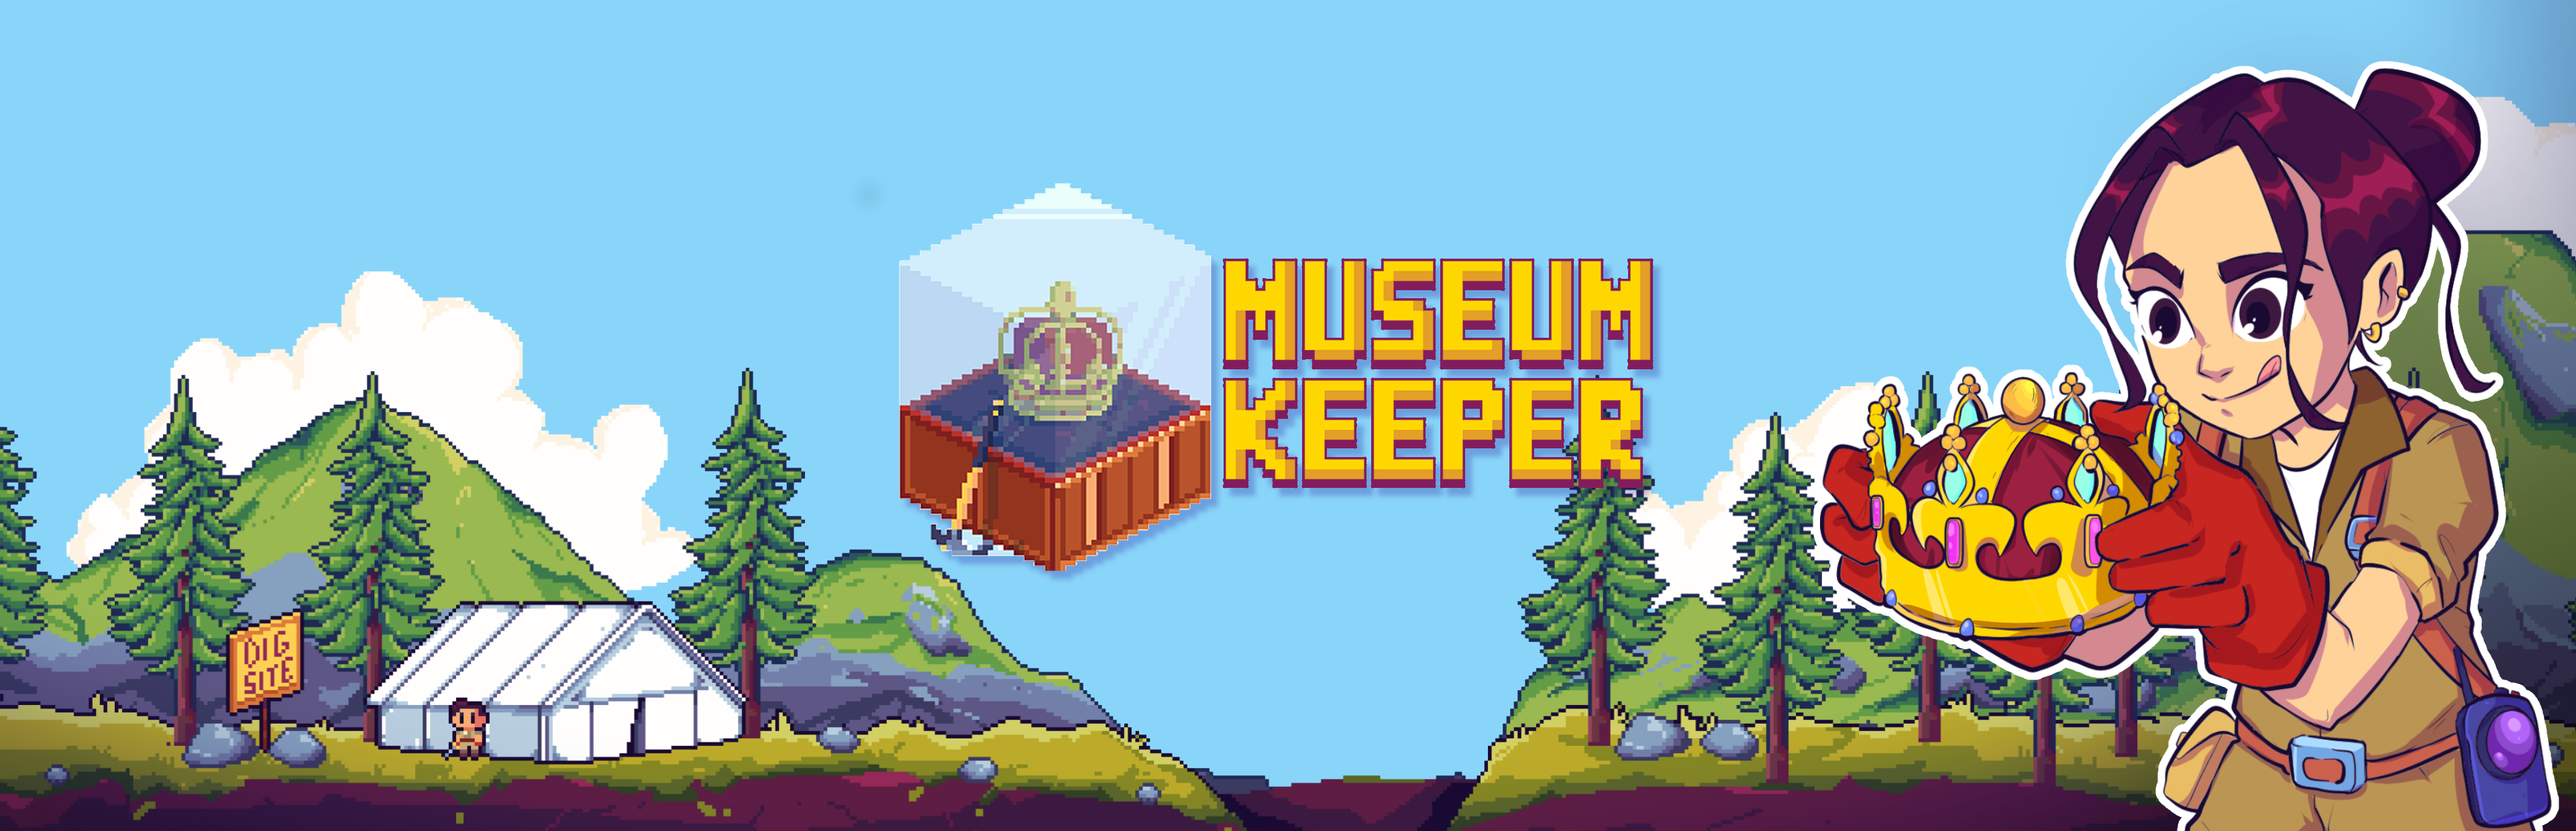
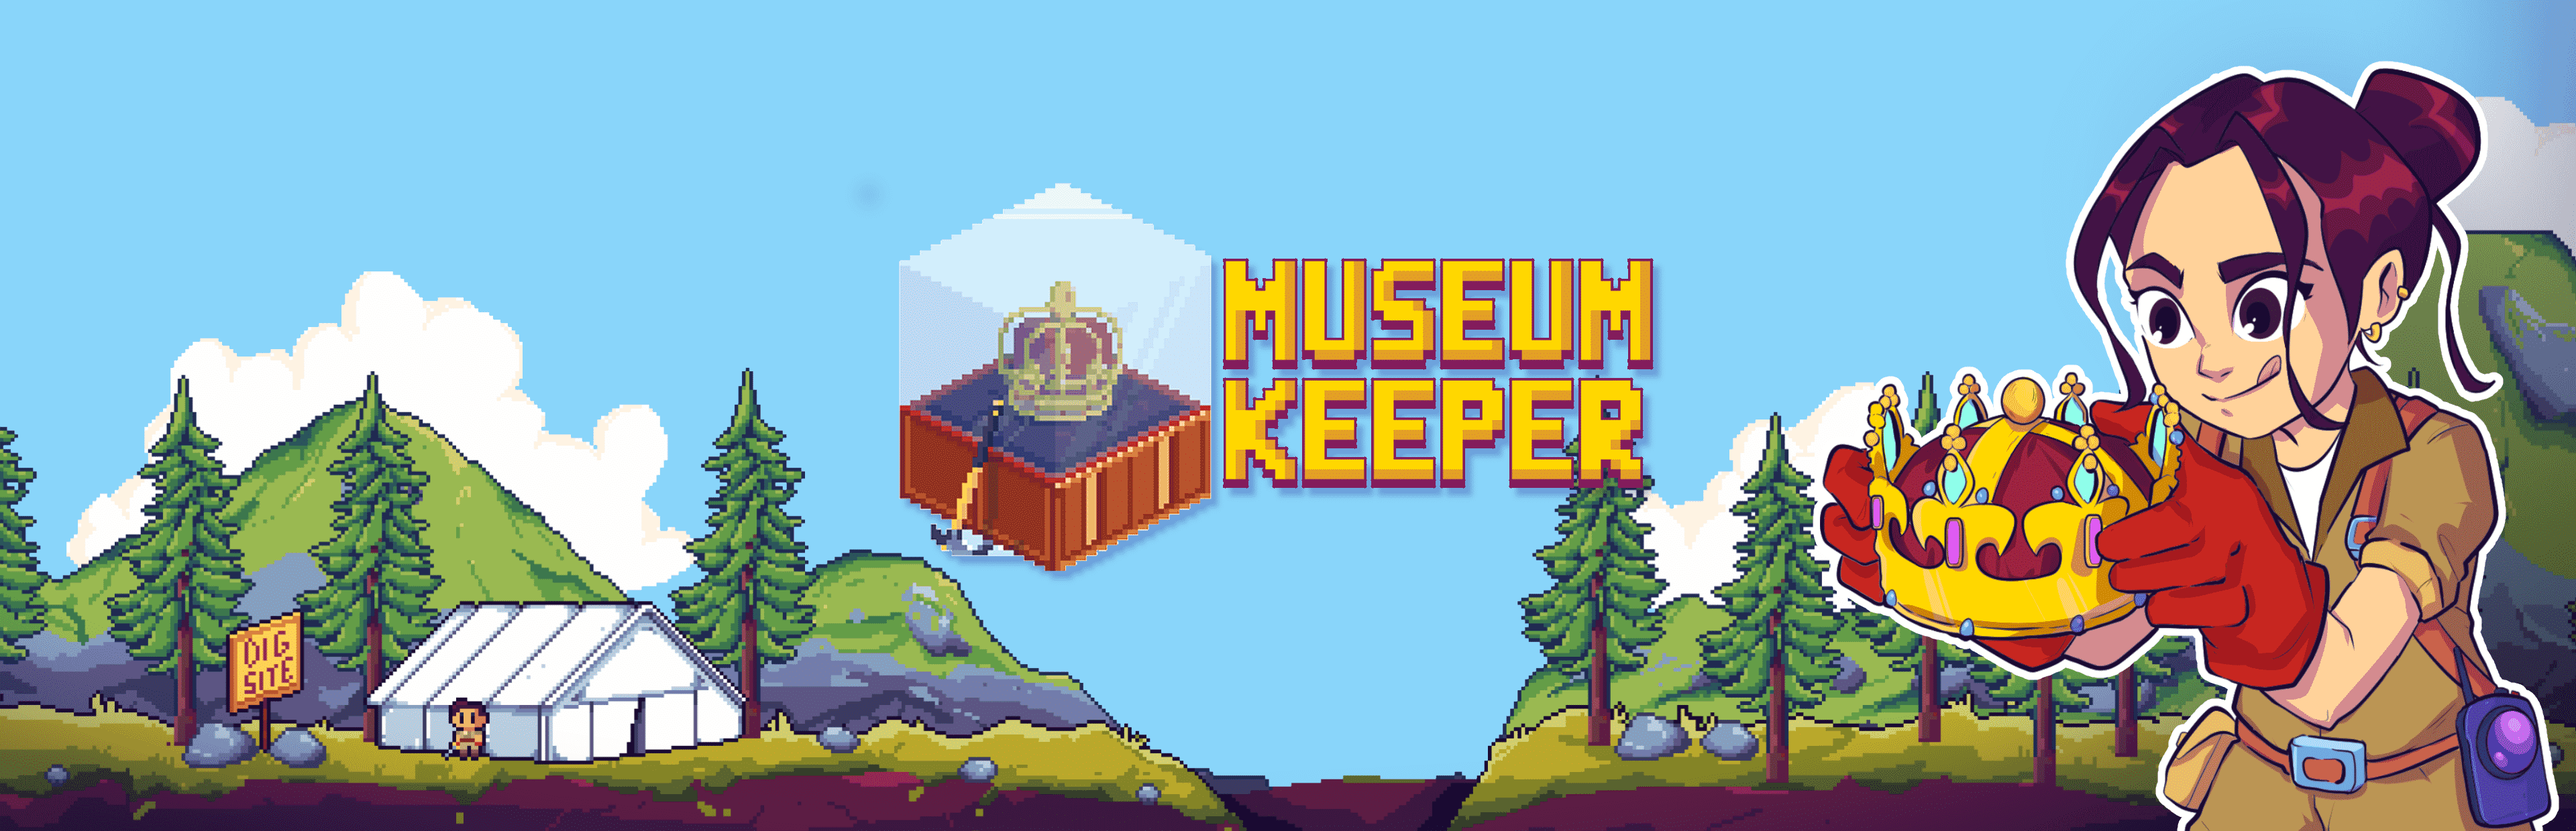
Changes April
-Compressed Images
-Added Home Button
-Fixed Youtube Embed Resonsiveness

diff --git a/newStyle.css b/newStyle.css
@@ -21,6 +21,11 @@ body{
     padding-top: 2%;
     padding-bottom: 2%;
   }
+
+  .teamImg.sticky {
+    position: sticky;
+    top: 0;
+  }
 #teamImg{
     border-radius: 5%;
   }
@@ -57,11 +62,23 @@ body{
     font-size: 2vw;
     text-align: center;
   }
+  #gameimgOne{
+    border-style: solid;
+    border-color: #fcb634;
+    border-spacing: 1%;
+    border-radius: 2%;
+  }
+  #gameimgTwo{
+    border-style: solid;
+    border-color: #fcb634;
+    border-spacing: 1%;
+    border-radius: 2%;
+  }
 #gameImgOne:hover{
-    opacity: 0.6;
+    opacity: 0.8;
   }
 #gameImgTwo:hover{
-    opacity: 0.6;
+    opacity: 0.8;
   }
 .copyright{
     white-space: nowrap;
@@ -140,4 +157,41 @@ body{
 }
 #myImg:hover{
   opacity: 0.6;
+}
+.youtubeLink{
+  display: flex;
+  justify-content: center;
+}
+iframe {
+  aspect-ratio: 16 / 9;
+  width: 60%;
+}
+
+.icon-bar {
+  position: fixed;
+  top: 20%;
+  -webkit-transform: translateY(-50%);
+  -ms-transform: translateY(-50%);
+  transform: translateY(-50%);
+  left: 0;
+}
+
+/* Style the icon bar links */
+.icon-bar a {
+  display: block;
+  text-align: center;
+  padding: 2vh;
+  transition: all 0.3s ease;
+  color: #B3172F;
+  font-size: 2.5vh;
+}
+
+/* Style the social media icons with color, if you want */
+.icon-bar a:hover {
+  background-color: #156a63;
+}
+
+.homeButton {
+  background: #fcb634;
+  color: white;
 }

diff --git a/alexBall.html b/alexBall.html
@@ -11,6 +11,11 @@
     <script src="https://kit.fontawesome.com/3967e48609.js" crossorigin="anonymous"></script>
 </head>
 <body class="bg-dark">
+
+  <div class="icon-bar">
+    <a href="index.html" class="homeButton"><i class="fa fa-house-chimney"></i></a>
+  </div>
+
   <!-- Company Logo -->
   <img src="Images/Company_Logo.png" class="logo" alt="" width="15%">
   <!-- Company Logo -->
@@ -19,7 +24,9 @@
       <a href="https://store.steampowered.com/app/1944660/AlexanderBall_A_Countryball_Tale/" target="_blank"><img src="Images/purchase_on_steam.png" class="img-fluid mx-auto" id="myImg" alt="" width="40%"></a>
     </center></div><br>
     
-    <div class="youtubeLink"><center><iframe style="width:720px; height:405px; max-width:60%; max-height:60%;" src="https://www.youtube.com/embed/8sTr8qdduQM?si=If5Mh1twSvKihwwX" title="YouTube video player" frameborder="0" allow="accelerometer; autoplay; clipboard-write; encrypted-media; gyroscope; picture-in-picture; web-share" allowfullscreen></iframe></center></div>
+    <div class="youtubeLink">
+      <iframe src="https://www.youtube.com/embed/8sTr8qdduQM?si=If5Mh1twSvKihwwX" title="YouTube video player" frameborder="0" allow="accelerometer; autoplay; clipboard-write; encrypted-media; gyroscope; picture-in-picture; web-share" allowfullscreen></iframe>
+    </div>
     <br>
   
   <div class="flex-links">

diff --git a/index.html b/index.html
@@ -11,6 +11,10 @@
     <script src="https://kit.fontawesome.com/3967e48609.js" crossorigin="anonymous"></script>
 </head>
 <body class="bg-dark" style="overflow-x: hidden;">
+
+  <div class="icon-bar">
+    <a href="index.html" class="homeButton"><i class="fa fa-house-chimney"></i></a>
+  </div>
   
   <!-- Company Logo -->
   <center><img src="Images/Company_Logo.png" class="logo" alt="" width="15%"></center>
@@ -31,13 +35,13 @@
 
     <div class="column">
       <div class="alexTitle">Alexanderball<br>A Countryball Tale</div>
-      <center><a href="alexBall.html"  target="_blank"><img src="Images/Alexball_Banner.jpg" id="gameImgOne" width="70%" alt=""></a></center>
+      <center><a href="alexBall.html"><img src="Images/Alexball_Banner.jpg" id="gameImgOne" width="70%" alt=""></a></center>
     </div>
 
     <div class="column">
       <br>
       <div class="mKTitle">Museum Keeper</div><br>
-      <center><a href="https://store.steampowered.com/app/2708780/Museum_Keeper/"  target="_blank"><img src="Images/Museum_Banner.png" id="gameImgTwo" width="70%" alt=""></a></center>
+      <center><a href="https://store.steampowered.com/app/2708780/Museum_Keeper/"><img src="Images/Museum_Banner.png" id="gameImgTwo" width="70%" alt=""></a></center>
     </div>
   </div>
   <br>

diff --git a/museum.html b/museum.html
@@ -11,6 +11,11 @@
     <script src="https://kit.fontawesome.com/3967e48609.js" crossorigin="anonymous"></script>
 </head>
 <body class="bg-dark">
+
+  <div class="icon-bar">
+    <a href="index.html" class="homeButton"><i class="fa fa-house-chimney"></i></a>
+  </div>
+
   <!-- Company Logo -->
   <img src="Images/Company_Logo.png" class="logo" alt="" width="15%">
   <!-- Company Logo -->
